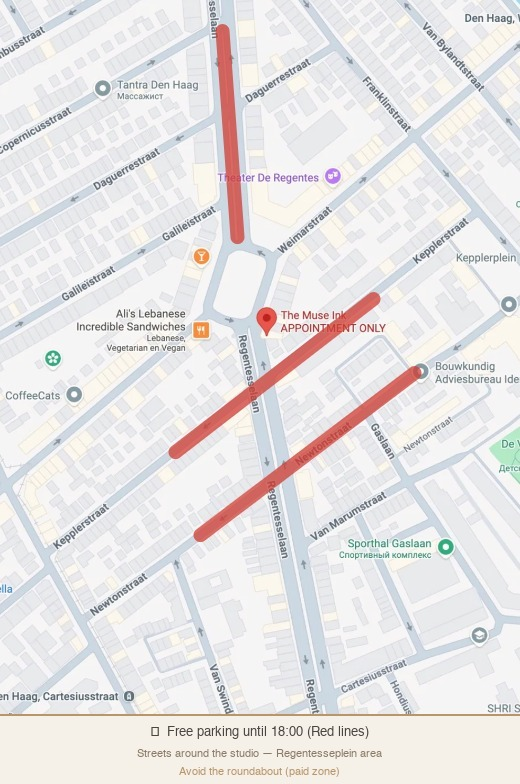
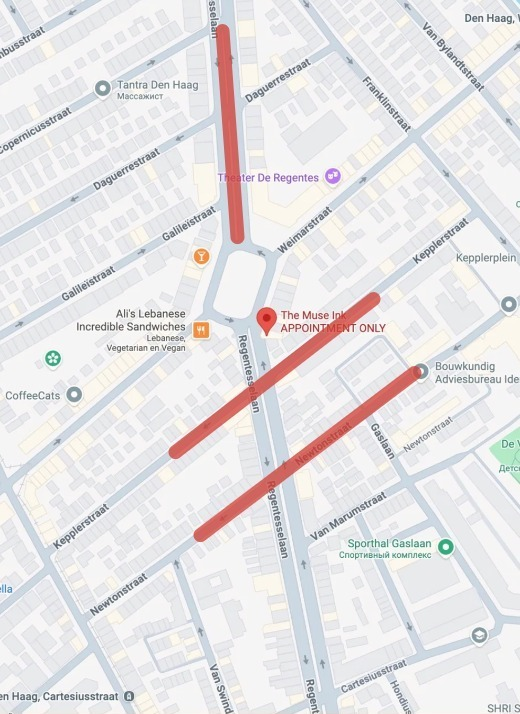
style: move parking map footer text to HTML template

diff --git a/api/utils/email.js b/api/utils/email.js
@@ -317,9 +317,16 @@ async function sendBookingConfirmation({ name, email, sessionDate, address, icsC
           Parking at the roundabout is paid, but you can usually find a free spot within 50–100 metres.
           <strong>Free parking until 18:00.</strong>
         </p>
-        <img src="https://raw.githubusercontent.com/tymofiik-glitch/tattoo_dima/main/img/parking-map.jpg?v=${Date.now()}"
-             alt="Free parking map" width="480"
-             style="width:100%;max-width:480px;height:auto;display:block;margin:0 0 24px;border-radius:4px"/>` : ''}
+        <div style="max-width:480px;margin:0 0 24px;border-radius:4px;overflow:hidden;background-color:#F5F0E8;">
+          <img src="https://raw.githubusercontent.com/tymofiik-glitch/tattoo_dima/main/img/parking-map.jpg?v=${Date.now()}"
+               alt="Free parking map" width="480"
+               style="width:100%;height:auto;display:block;border-bottom:1px solid #b8956a;"/>
+          <div style="padding:16px 12px;text-align:center;">
+            <div style="color:#4a4540;font-family:'Inter','Helvetica Neue',Arial,sans-serif;font-size:13px;font-weight:600;margin-bottom:6px;">🅿  Free parking until 18:00 (Red lines)</div>
+            <div style="color:#8a7a65;font-family:'Inter','Helvetica Neue',Arial,sans-serif;font-size:11px;margin-bottom:3px;">Streets around the studio — Regentesseplein area</div>
+            <div style="color:#b8956a;font-family:'Inter','Helvetica Neue',Arial,sans-serif;font-size:11px;">Avoid the roundabout (paid zone)</div>
+          </div>
+        </div>` : ''}
         <p style="margin:0 0 16px;font-family:'Inter','Helvetica Neue',Arial,sans-serif;font-size:13px;line-height:1.7;color:#8a8478;font-style:italic">
           Every design is created live in the studio during your session — no need to prepare a sketch.
         </p>
@@ -381,9 +388,16 @@ async function sendPreCareEmail({ name, email, sessionDate, address }, { idempot
           Parking at the roundabout is paid, but you can usually find a free spot within 50–100 metres.
           <strong>Free parking until 18:00.</strong>
         </p>
-        <img src="https://raw.githubusercontent.com/tymofiik-glitch/tattoo_dima/main/img/parking-map.jpg?v=${Date.now()}"
-             alt="Free parking map" width="480"
-             style="width:100%;max-width:480px;height:auto;display:block;margin:0 0 24px;border-radius:4px"/>
+        <div style="max-width:480px;margin:0 0 24px;border-radius:4px;overflow:hidden;background-color:#F5F0E8;">
+          <img src="https://raw.githubusercontent.com/tymofiik-glitch/tattoo_dima/main/img/parking-map.jpg?v=${Date.now()}"
+               alt="Free parking map" width="480"
+               style="width:100%;height:auto;display:block;border-bottom:1px solid #b8956a;"/>
+          <div style="padding:16px 12px;text-align:center;">
+            <div style="color:#4a4540;font-family:'Inter','Helvetica Neue',Arial,sans-serif;font-size:13px;font-weight:600;margin-bottom:6px;">🅿  Free parking until 18:00 (Red lines)</div>
+            <div style="color:#8a7a65;font-family:'Inter','Helvetica Neue',Arial,sans-serif;font-size:11px;margin-bottom:3px;">Streets around the studio — Regentesseplein area</div>
+            <div style="color:#b8956a;font-family:'Inter','Helvetica Neue',Arial,sans-serif;font-size:11px;">Avoid the roundabout (paid zone)</div>
+          </div>
+        </div>
 
         ${noteCard(`Need to reschedule? Let us know <strong>at least 48 hours in advance</strong> — deposits are non-refundable within 48 hours of the session.`)}
 